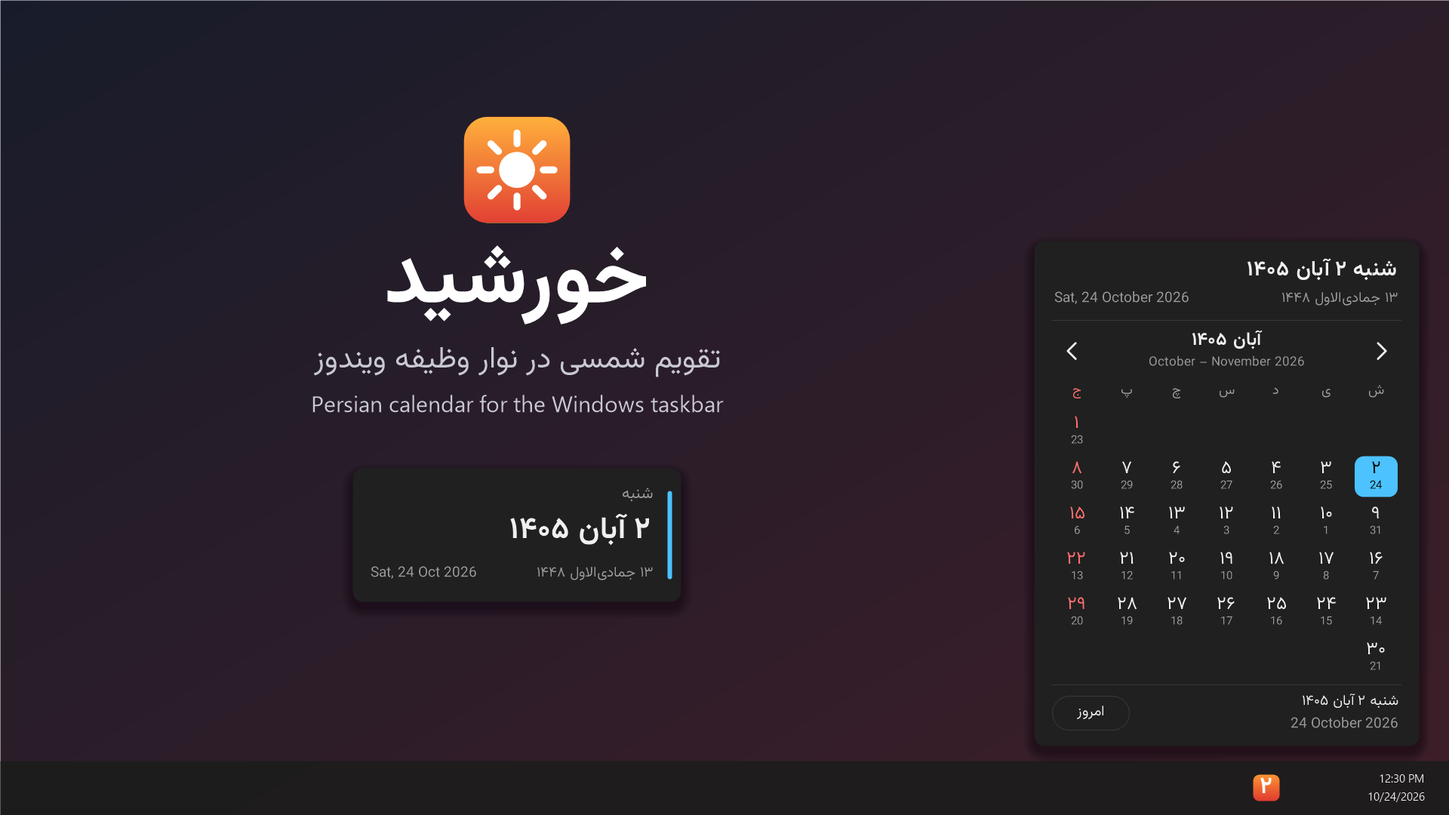
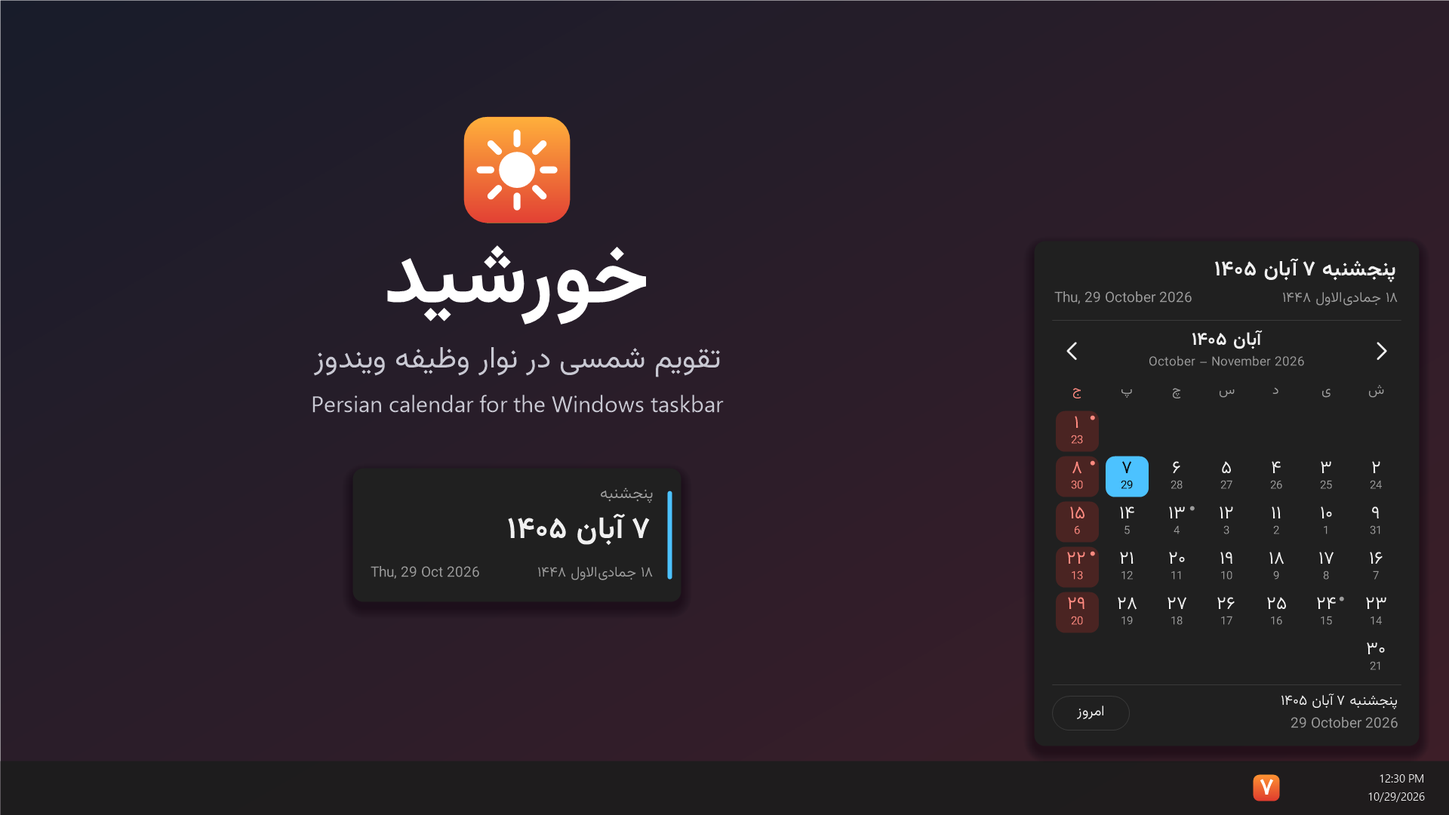
Add Iran's official holidays and occasions, red holiday styling
- Mark all official holidays, including lunar religious ones, using Iran's
  official lunar month starts (Ramadan 1447 to Shawwal 1448) with Windows'
  Hijri calendar as the fallback outside that range.
- List the main occasions of the official calendar; days with one get a dot
  and show their occasions in the footer, widget and tray tooltip.
- Tint Fridays and holidays red in the calendar, widget and tray icon.
- Fix the tray icon dropping the second digit of two-digit days.
- Regenerate screenshots; update README and CLAUDE.md.

diff --git a/Khorshid.cs b/Khorshid.cs
@@ -3,6 +3,7 @@
 // Build with build.ps1 (uses the C# compiler that ships with .NET Framework 4.x).
 
 using System;
+using System.Collections.Generic;
 using System.Drawing;
 using System.Drawing.Drawing2D;
 using System.Drawing.Imaging;
@@ -88,7 +89,45 @@ namespace Khorshid
 
         public static string HijriDate(DateTime d)
         {
-            return Digits(Hijri.GetDayOfMonth(d)) + " " + HijriMonths[Hijri.GetMonth(d) - 1] + " " + Digits(Hijri.GetYear(d));
+            int y, m, day;
+            Lunar(d, out y, out m, out day);
+            return Digits(day) + " " + HijriMonths[m - 1] + " " + Digits(y);
+        }
+
+        // First day of each lunar month in Iran's official calendar (Persian year, month, day),
+        // from 1 Ramadan 1447. Iran starts lunar months by moon sighting, so outside this table
+        // Windows' arithmetic HijriCalendar is used and may be off by a day. Extend it yearly.
+        const int LunarFirstYear = 1447, LunarFirstMonth = 9;
+        static readonly int[,] LunarStarts = {
+            { 1404, 11, 30 },   // Ramadan 1447
+            { 1405, 1, 1 }, { 1405, 1, 30 }, { 1405, 2, 28 },
+            { 1405, 3, 26 },    // Muharram 1448
+            { 1405, 4, 25 }, { 1405, 5, 23 }, { 1405, 6, 22 }, { 1405, 7, 20 }, { 1405, 8, 20 },
+            { 1405, 9, 20 }, { 1405, 10, 20 }, { 1405, 11, 19 }, { 1405, 12, 19 } };
+
+        static DateTime LunarStart(int i)
+        {
+            return Cal.ToDateTime(LunarStarts[i, 0], LunarStarts[i, 1], LunarStarts[i, 2], 0, 0, 0, 0);
+        }
+
+        public static void Lunar(DateTime d, out int year, out int month, out int day)
+        {
+            d = d.Date;
+            int last = LunarStarts.GetLength(0) - 1;
+            // The last listed month is known to have at least 29 days.
+            if (d >= LunarStart(0) && d < LunarStart(last).AddDays(29))
+            {
+                int i = last;
+                while (LunarStart(i) > d) i--;
+                int k = LunarFirstMonth - 1 + i;
+                year = LunarFirstYear + k / 12;
+                month = k % 12 + 1;
+                day = (d - LunarStart(i)).Days + 1;
+                return;
+            }
+            year = Hijri.GetYear(d);
+            month = Hijri.GetMonth(d);
+            day = Hijri.GetDayOfMonth(d);
         }
 
         public static string GregorianDate(DateTime d)
@@ -96,20 +135,126 @@ namespace Khorshid
             return d.ToString("dddd, d MMMM yyyy", CultureInfo.InvariantCulture);
         }
 
-        // Official holidays that fall on fixed Solar Hijri dates.
-        public static string Holiday(int month, int day)
+        // Fridays and official holidays.
+        public static bool IsOff(DateTime d) { return Col(d) == 6 || Occasions.IsHoliday(d); }
+    }
+
+    // ---------------------------------------------------------------- occasions
+
+    // Occasions from Iran's official calendar, as "month/day text"; a leading "!" marks an
+    // official holiday. Lunar day 0 means the last day of that month.
+    static class Occasions
+    {
+        static readonly string[] Solar = {
+            "1/1 !عید نوروز", "1/2 !عید نوروز", "1/3 !عید نوروز", "1/4 !عید نوروز",
+            "1/6 زادروز زرتشت", "1/12 !روز جمهوری اسلامی ایران", "1/13 !روز طبیعت",
+            "1/20 روز ملی فناوری هستهای", "1/25 بزرگداشت عطار نیشابوری", "1/29 روز ارتش",
+            "2/1 بزرگداشت سعدی", "2/3 بزرگداشت شیخ بهایی، روز معماری", "2/10 روز ملی خلیج فارس",
+            "2/12 روز معلم", "2/25 بزرگداشت فردوسی، روز پاسداشت زبان فارسی",
+            "2/27 روز ارتباطات و روابط عمومی", "2/28 بزرگداشت خیام",
+            "3/1 بزرگداشت ملاصدرا", "3/3 سالروز آزادسازی خرمشهر", "3/14 !رحلت امام خمینی",
+            "3/15 !قیام ۱۵ خرداد", "3/29 درگذشت دکتر علی شریعتی", "3/31 شهادت دکتر مصطفی چمران",
+            "4/7 روز قوه قضاییه", "4/14 روز قلم", "4/22 بزرگداشت خوارزمی",
+            "5/8 بزرگداشت شیخ شهابالدین سهروردی", "5/14 صدور فرمان مشروطیت", "5/17 روز خبرنگار",
+            "6/1 بزرگداشت ابوعلی سینا، روز پزشک", "6/2 آغاز هفته دولت", "6/4 روز کارمند",
+            "6/5 بزرگداشت زکریای رازی، روز داروسازی", "6/13 بزرگداشت ابوریحان بیرونی، روز تعاون",
+            "6/17 قیام ۱۷ شهریور", "6/21 روز سینما", "6/27 روز شعر و ادب فارسی، بزرگداشت شهریار",
+            "6/31 آغاز هفته دفاع مقدس",
+            "7/7 روز آتشنشانی و ایمنی، بزرگداشت شمس", "7/8 بزرگداشت مولوی", "7/13 روز نیروی انتظامی",
+            "7/15 روز روستا و عشایر", "7/20 بزرگداشت حافظ", "7/26 روز تربیت بدنی و ورزش",
+            "8/1 بزرگداشت ابوالفضل بیهقی", "8/8 روز نوجوان", "8/13 روز دانشآموز",
+            "8/24 روز کتاب، کتابخوانی و کتابدار",
+            "9/5 روز بسیج مستضعفان", "9/7 روز نیروی دریایی", "9/10 روز مجلس", "9/12 روز قانون اساسی",
+            "9/16 روز دانشجو", "9/25 روز پژوهش", "9/26 روز حملونقل و رانندگان", "9/30 شب یلدا",
+            "10/4 بزرگداشت رودکی", "10/13 شهادت سردار قاسم سلیمانی", "10/19 قیام ۱۹ دی مردم قم",
+            "10/20 شهادت امیرکبیر",
+            "11/1 بزرگداشت خاقانی", "11/12 بازگشت امام خمینی به ایران، آغاز دهه فجر",
+            "11/19 روز نیروی هوایی", "11/22 !پیروزی انقلاب اسلامی ایران", "11/29 قیام مردم تبریز",
+            "12/5 بزرگداشت خواجه نصیرالدین طوسی، روز مهندسی", "12/15 روز درختکاری",
+            "12/21 بزرگداشت نظامی گنجوی", "12/22 روز بزرگداشت شهدا", "12/25 بزرگداشت پروین اعتصامی",
+            "12/29 !روز ملی شدن صنعت نفت ایران" };
+
+        static readonly string[] Lunar = {
+            "1/1 آغاز سال هجری قمری", "1/9 !تاسوعای حسینی", "1/10 !عاشورای حسینی",
+            "1/12 شهادت امام زینالعابدین (ع)",
+            "2/20 !اربعین حسینی", "2/28 !رحلت حضرت رسول اکرم (ص)، شهادت امام حسن مجتبی (ع)",
+            "2/0 !شهادت امام رضا (ع)",
+            "3/1 هجرت حضرت رسول اکرم (ص) به مدینه", "3/8 !شهادت امام حسن عسکری (ع)",
+            "3/12 ولادت حضرت رسول اکرم (ص) به روایت اهل سنت، آغاز هفته وحدت",
+            "3/17 !ولادت حضرت رسول اکرم (ص) و امام جعفر صادق (ع)",
+            "4/8 ولادت امام حسن عسکری (ع)", "4/10 وفات حضرت معصومه (س)",
+            "5/5 ولادت حضرت زینب (س)، روز پرستار",
+            "6/3 !شهادت حضرت فاطمه زهرا (س)", "6/13 وفات حضرت امالبنین (س)",
+            "6/20 ولادت حضرت فاطمه زهرا (س)، روز زن",
+            "7/1 ولادت امام محمد باقر (ع)", "7/3 شهادت امام علیالنقی (ع)", "7/10 ولادت امام محمد تقی (ع)",
+            "7/13 !ولادت امام علی (ع)، روز پدر", "7/15 وفات حضرت زینب (س)",
+            "7/25 شهادت امام موسی کاظم (ع)", "7/27 !مبعث حضرت رسول اکرم (ص)",
+            "8/3 ولادت امام حسین (ع)، روز پاسدار", "8/4 ولادت حضرت ابوالفضل (ع)، روز جانباز",
+            "8/5 ولادت امام زینالعابدین (ع)", "8/15 !ولادت حضرت قائم (عج)",
+            "9/10 وفات حضرت خدیجه (س)", "9/15 ولادت امام حسن مجتبی (ع)، روز اکرام", "9/18 شب قدر",
+            "9/19 ضربت خوردن حضرت علی (ع)", "9/20 شب قدر", "9/21 !شهادت حضرت علی (ع)", "9/22 شب قدر",
+            "10/1 !عید سعید فطر", "10/2 !تعطیل به مناسبت عید سعید فطر", "10/25 !شهادت امام جعفر صادق (ع)",
+            "11/1 ولادت حضرت معصومه (س)، روز دختران", "11/11 ولادت امام رضا (ع)",
+            "11/29 شهادت امام محمد تقی (ع)",
+            "12/1 سالروز ازدواج حضرت علی (ع) و حضرت فاطمه (س)", "12/7 شهادت امام محمد باقر (ع)",
+            "12/9 روز عرفه", "12/10 !عید سعید قربان", "12/15 ولادت امام علیالنقی (ع)",
+            "12/18 !عید سعید غدیر خم", "12/20 ولادت امام موسی کاظم (ع)", "12/24 روز مباهله" };
+
+        static readonly string[] Gregorian = {
+            "1/1 آغاز سال میلادی", "5/1 روز جهانی کار و کارگر", "12/25 ولادت حضرت عیسی مسیح (ع)" };
+
+        static readonly Dictionary<int, string> solar = Index(Solar), lunar = Index(Lunar), gregorian = Index(Gregorian);
+
+        static Dictionary<int, string> Index(string[] table)
         {
-            if (month == 1 && day >= 1 && day <= 4) return "عید نوروز";
-            if (month == 1 && day == 12) return "روز جمهوری اسلامی";
-            if (month == 1 && day == 13) return "روز طبیعت";
-            if (month == 3 && day == 14) return "رحلت امام خمینی";
-            if (month == 3 && day == 15) return "قیام ۱۵ خرداد";
-            if (month == 11 && day == 22) return "پیروزی انقلاب اسلامی";
-            if (month == 12 && day == 29) return "ملی شدن صنعت نفت";
-            return null;
+            var map = new Dictionary<int, string>();
+            foreach (string entry in table)
+            {
+                int slash = entry.IndexOf('/'), space = entry.IndexOf(' ');
+                int key = int.Parse(entry.Substring(0, slash)) * 100 + int.Parse(entry.Substring(slash + 1, space - slash - 1));
+                map[key] = entry.Substring(space + 1);
+            }
+            return map;
         }
 
-        public static string Holiday(DateTime d) { return Holiday(Month(d), Day(d)); }
+        // All of a day's occasions, holidays first; each is "!text" for a holiday or plain text.
+        public static List<string> For(DateTime d)
+        {
+            var list = new List<string>();
+            string s;
+            int ly, lm, ld, ny, nm, nd;
+            Persian.Lunar(d, out ly, out lm, out ld);
+            Persian.Lunar(d.AddDays(1), out ny, out nm, out nd);
+            if (lunar.TryGetValue(lm * 100 + ld, out s)) list.Add(s);
+            if (nd == 1 && lunar.TryGetValue(lm * 100, out s)) list.Add(s);
+            if (solar.TryGetValue(Persian.Month(d) * 100 + Persian.Day(d), out s)) list.Add(s);
+            if (gregorian.TryGetValue(d.Month * 100 + d.Day, out s)) list.Add(s);
+
+            int py, pm, pd;
+            Persian.Lunar(d.AddDays(7), out py, out pm, out pd);
+            if (lm == 9 && pm != 9 && d.DayOfWeek == DayOfWeek.Friday) list.Add("روز جهانی قدس");
+            if (d.DayOfWeek == DayOfWeek.Wednesday && Persian.Year(d.AddDays(7)) != Persian.Year(d)) list.Add("آخرین چهارشنبه سال");
+
+            var sorted = list.FindAll(x => x.StartsWith("!"));
+            sorted.AddRange(list.FindAll(x => !x.StartsWith("!")));
+            return sorted;
+        }
+
+        public static bool IsHoliday(DateTime d)
+        {
+            foreach (string s in For(d)) if (s.StartsWith("!")) return true;
+            return false;
+        }
+
+        // The day's occasions as one line, or null; holiday tells whether any is an official holiday.
+        public static string Text(DateTime d, out bool holiday)
+        {
+            var list = For(d);
+            holiday = list.Count > 0 && list[0].StartsWith("!");
+            if (list.Count == 0) return null;
+            for (int i = 0; i < list.Count; i++) list[i] = list[i].TrimStart('!');
+            return string.Join("، ", list.ToArray());
+        }
     }
 
     // ---------------------------------------------------------------- settings
@@ -236,7 +381,7 @@ namespace Khorshid
 
     class Theme
     {
-        public Color Bg, Text, Muted, Line, Hover, Holiday, TodayBg, TodayText;
+        public Color Bg, Text, Muted, Line, Hover, Holiday, HolidayBg, TodayBg, TodayText;
 
         public static bool IsDark()
         {
@@ -260,12 +405,12 @@ namespace Khorshid
                 return new Theme {
                     Bg = Color.FromArgb(32, 32, 32), Text = Color.FromArgb(240, 240, 240),
                     Muted = Color.FromArgb(155, 155, 155), Line = Color.FromArgb(58, 58, 58),
-                    Hover = Color.FromArgb(48, 48, 48), Holiday = Color.FromArgb(255, 110, 110),
+                    Hover = Color.FromArgb(48, 48, 48), Holiday = Color.FromArgb(255, 138, 128), HolidayBg = Color.FromArgb(74, 36, 34),
                     TodayBg = Color.FromArgb(76, 194, 255), TodayText = Color.FromArgb(10, 10, 10) };
             return new Theme {
                 Bg = Color.FromArgb(249, 249, 249), Text = Color.FromArgb(26, 26, 26),
                 Muted = Color.FromArgb(110, 110, 110), Line = Color.FromArgb(224, 224, 224),
-                Hover = Color.FromArgb(234, 234, 234), Holiday = Color.FromArgb(205, 45, 45),
+                Hover = Color.FromArgb(234, 234, 234), Holiday = Color.FromArgb(196, 43, 28), HolidayBg = Color.FromArgb(253, 231, 228),
                 TodayBg = Color.FromArgb(0, 103, 192), TodayText = Color.White };
         }
     }
@@ -335,7 +480,10 @@ namespace Khorshid
         }
 
         // Tray icon: today's Persian day number on the logo's sun gradient.
-        public static Bitmap DayIcon(int size, int day)
+        public static Bitmap DayIcon(int size, int day) { return DayIcon(size, day, false); }
+
+        // The tray icon: day of the month on an orange plate, or a red one on Fridays and holidays.
+        public static Bitmap DayIcon(int size, int day, bool off)
         {
             var bmp = new Bitmap(size, size, PixelFormat.Format32bppArgb);
             using (var g = Graphics.FromImage(bmp))
@@ -344,7 +492,9 @@ namespace Khorshid
                 g.TextRenderingHint = TextRenderingHint.AntiAliasGridFit;
                 g.Clear(Color.Transparent);
                 var plate = new RectangleF(0, 0, size - 1, size - 1);
-                using (var brush = new LinearGradientBrush(RectangleF.Inflate(plate, 0, 1), Color.FromArgb(255, 150, 50), Color.FromArgb(222, 56, 46), 90f))
+                Color top = off ? Color.FromArgb(232, 72, 58) : Color.FromArgb(255, 150, 50);
+                Color bottom = off ? Color.FromArgb(170, 30, 28) : Color.FromArgb(222, 56, 46);
+                using (var brush = new LinearGradientBrush(RectangleF.Inflate(plate, 0, 1), top, bottom, 90f))
                 using (var path = Round(plate, size * 0.22f))
                     g.FillPath(brush, path);
 
@@ -359,7 +509,18 @@ namespace Khorshid
                     f.Dispose();
                     px -= 0.5f;
                 }
-                using (f) Text(g, txt, f, Color.White, new RectangleF(0, size * 0.04f, size, size), Align.Center, true);
+                // Draw with the same tight format it was measured with; the padded default format
+                // trimmed two-digit days down to their first digit.
+                using (f)
+                using (var sf = (StringFormat)StringFormat.GenericTypographic.Clone())
+                using (var white = new SolidBrush(Color.White))
+                {
+                    // The font's line is taller than the icon; LineLimit would skip it entirely.
+                    sf.FormatFlags = (sf.FormatFlags & ~StringFormatFlags.LineLimit) | StringFormatFlags.NoWrap | StringFormatFlags.NoClip;
+                    sf.Alignment = StringAlignment.Center;
+                    sf.LineAlignment = StringAlignment.Center;
+                    g.DrawString(txt, f, white, new RectangleF(0, size * 0.04f, size, size), sf);
+                }
             }
             return bmp;
         }
@@ -433,15 +594,17 @@ namespace Khorshid
             DateTime today = DateTime.Today;
             if (today == shownDate && (DateTime.Now - lastPushed).TotalMinutes < 5) return;
 
-            using (var bmp = Ui.DayIcon(SystemInformation.SmallIconSize.Width, Persian.Day(today)))
+            using (var bmp = Ui.DayIcon(SystemInformation.SmallIconSize.Width, Persian.Day(today), Persian.IsOff(today)))
             {
                 IntPtr old = iconHandle;
                 iconHandle = bmp.GetHicon();
                 tray.Icon = Icon.FromHandle(iconHandle);
                 if (old != IntPtr.Zero) Native.DestroyIcon(old);
             }
-            string tip = Persian.LongDate(today) + "\n" + today.ToString("d MMMM yyyy", CultureInfo.InvariantCulture);
-            tray.Text = tip.Length > 63 ? tip.Substring(0, 63) : tip;
+            bool holiday;
+            string occasion = Occasions.Text(today, out holiday);
+            string tip = Persian.LongDate(today) + "\n" + (occasion ?? today.ToString("d MMMM yyyy", CultureInfo.InvariantCulture));
+            tray.Text = tip.Length > 63 ? tip.Substring(0, 62) + "…" : tip;
 
             widget.Invalidate();
             if (popup.Visible) popup.Invalidate();
@@ -620,14 +783,19 @@ namespace Khorshid
                 cells[d - 1] = cell;
                 DateTime date = first.AddDays(d - 1);
                 bool isToday = date == today;
-                bool red = c == 6 || Persian.Holiday(viewMonth, d) != null;
+                var occasions = Occasions.For(date);
+                bool red = c == 6 || (occasions.Count > 0 && occasions[0].StartsWith("!"));
                 var box = RectangleF.Inflate(cell, -3, -2);
 
                 if (isToday) Ui.FillRound(g, th.TodayBg, box, 8);
                 else if (hoverDay == d - 1) Ui.FillRound(g, th.Hover, box, 8);
+                else if (red) Ui.FillRound(g, th.HolidayBg, box, 8);
 
                 Color main = isToday ? th.TodayText : red ? th.Holiday : th.Text;
-                Color small = isToday ? th.TodayText : th.Muted;
+                Color small = isToday ? th.TodayText : red ? th.Holiday : th.Muted;
+                // A dot marks days with occasions to read in the footer.
+                if (occasions.Count > 0)
+                    using (var b = new SolidBrush(small)) g.FillEllipse(b, box.Right - 7.5f, box.Y + 4, 4, 4);
                 Ui.Text(g, Persian.Digits(d), fDay, main, new RectangleF(box.X, box.Y, box.Width, box.Height - 11), Align.Center, true);
                 Ui.Text(g, date.Day.ToString(CultureInfo.InvariantCulture), fDaySmall, small,
                     new RectangleF(box.X, box.Bottom - 15, box.Width, 13), Align.Center, false);
@@ -642,11 +810,12 @@ namespace Khorshid
             if (focusDay > 0)
             {
                 DateTime fd = first.AddDays(focusDay - 1);
-                string holiday = Persian.Holiday(viewMonth, focusDay);
+                bool holiday;
+                string occasion = Occasions.Text(fd, out holiday);
                 var textRect = new RectangleF(100, footTop + 6, W - Pad - 100, 20);
                 Ui.Text(g, Persian.LongDate(fd), fFoot, th.Text, textRect, Align.Right, true);
                 textRect.Y += 20;
-                if (holiday != null) Ui.Text(g, holiday, fFoot, th.Holiday, textRect, Align.Right, true);
+                if (occasion != null) Ui.Text(g, occasion, fFoot, holiday ? th.Holiday : th.Muted, textRect, Align.Right, true);
                 else Ui.Text(g, fd.ToString("d MMMM yyyy", CultureInfo.InvariantCulture), fFoot, th.Muted, textRect, Align.Right, false);
             }
 
@@ -836,8 +1005,9 @@ namespace Khorshid
             Ui.Prepare(g, scale);
             g.Clear(th.Bg);
             DateTime today = DateTime.Today;
-            string holiday = Persian.Holiday(today);
-            bool red = Persian.Col(today) == 6 || holiday != null;
+            bool holiday;
+            string occasion = Occasions.Text(today, out holiday);
+            bool red = Persian.Col(today) == 6 || holiday;
 
             Ui.FillRound(g, red ? th.Holiday : th.TodayBg, new RectangleF(W - 12, 20, 4, H - 40), 2);
             float right = W - 22;
@@ -846,7 +1016,7 @@ namespace Khorshid
             Ui.Text(g, Persian.ShortDate(today), fBig, th.Text, new RectangleF(14, 36, right - 14, 42), Align.Right, true);
             Ui.Text(g, today.ToString("ddd, d MMM yyyy", CultureInfo.InvariantCulture), fSmall, th.Muted,
                 new RectangleF(14, 84, 112, 20), Align.Left, false);
-            Ui.Text(g, holiday ?? Persian.HijriDate(today), fSmall, holiday != null ? th.Holiday : th.Muted,
+            Ui.Text(g, occasion ?? Persian.HijriDate(today), fSmall, holiday ? th.Holiday : th.Muted,
                 new RectangleF(122, 84, right - 122, 20), Align.Right, true);
         }
     }

diff --git a/CLAUDE.md b/CLAUDE.md
@@ -23,7 +23,8 @@ Builds use the in-box `%WINDIR%\Microsoft.NET\Framework64\v4.0.30319\csc.exe`, w
 ## Architecture (`Khorshid.cs`)
 
 - `Program` → single-instance mutex → `Application.Run(new TrayApp())`.
-- `Persian`: all calendar logic on top of `System.Globalization.PersianCalendar` / `HijriCalendar` — month/weekday names, Persian digit conversion (`Digits`), Saturday-first column (`Col`), and the fixed-date official holiday table (`Holiday`). Lunar religious holidays are intentionally not marked.
+- `Persian`: all calendar logic on top of `System.Globalization.PersianCalendar` — month/weekday names, Persian digit conversion (`Digits`), Saturday-first column (`Col`), `IsOff` (Friday or holiday), and Iran's lunar calendar (`Lunar`). `LunarStarts` holds the official first day of each lunar month (Iran uses moon sighting); outside it, `HijriCalendar` is the fallback and may be a day off. **Each year, append the next year's month starts** from the official calendar (derive them from the published lunar holidays) and check the new year's holidays against the official list.
+- `Occasions`: string tables of Solar, Lunar and Gregorian occasions (`"month/day text"`, `!` = official holiday, lunar day `0` = last day of the month), plus computed ones (last Friday of Ramadan, last Wednesday of the year). `For(date)` returns a day's occasions, holidays first.
 - `Settings`: hand-rolled `key=value` file at `%APPDATA%\Khorshid\settings.ini` (widget on/off, topmost, position).
 - `Startup`: start-with-Windows via the HKCU `Run` key — except when running as an MSIX package (`Native.IsPackaged()` via `GetCurrentPackageFullName`), where the tray menu instead opens Settings → Apps → Startup and the package's `StartupTask` (in `packaging/AppxManifest.xml`) handles it. Keep both paths working.
 - `Native`: P/Invoke (DPI awareness, DWM rounded corners/dark title, window dragging, package detection).

diff --git a/README.md b/README.md
@@ -83,7 +83,9 @@ Or exit Khorshid from its tray menu and delete its folder and `Khorshid` Start M
 
 ## Holidays and Hijri dates
 
-Khorshid marks the official holidays that fall on fixed Solar Hijri dates: Nowruz (1–4 Farvardin), 12 and 13 Farvardin, 14 and 15 Khordad, 22 Bahman and 29 Esfand. Religious holidays follow the lunar calendar, move every year and depend on official announcements, so they aren't marked yet. The Hijri date comes from Windows' built-in Hijri calendar and can differ from Iran's official date by a day.
+Khorshid marks all of Iran's official holidays, both the fixed Solar Hijri ones (Nowruz, 12 and 13 Farvardin, 14 and 15 Khordad, 22 Bahman, 29 Esfand) and the religious ones that follow the lunar calendar (Tasua and Ashura, Arbaeen, Eid al-Fitr, Eid al-Adha, Ghadir and the rest). Fridays and holidays are tinted red in the calendar, and the tray icon turns red on those days. It also lists the main occasions of the official calendar; days that have one show a small dot, and hovering a day shows its occasions in the footer.
+
+Iran starts each lunar month by moon sighting, so Khorshid carries the official start dates of the lunar months (currently through 1405). Outside that range it falls back to Windows' built-in Hijri calendar, which can differ from Iran's official date by a day.
 
 ## Build from source
 
